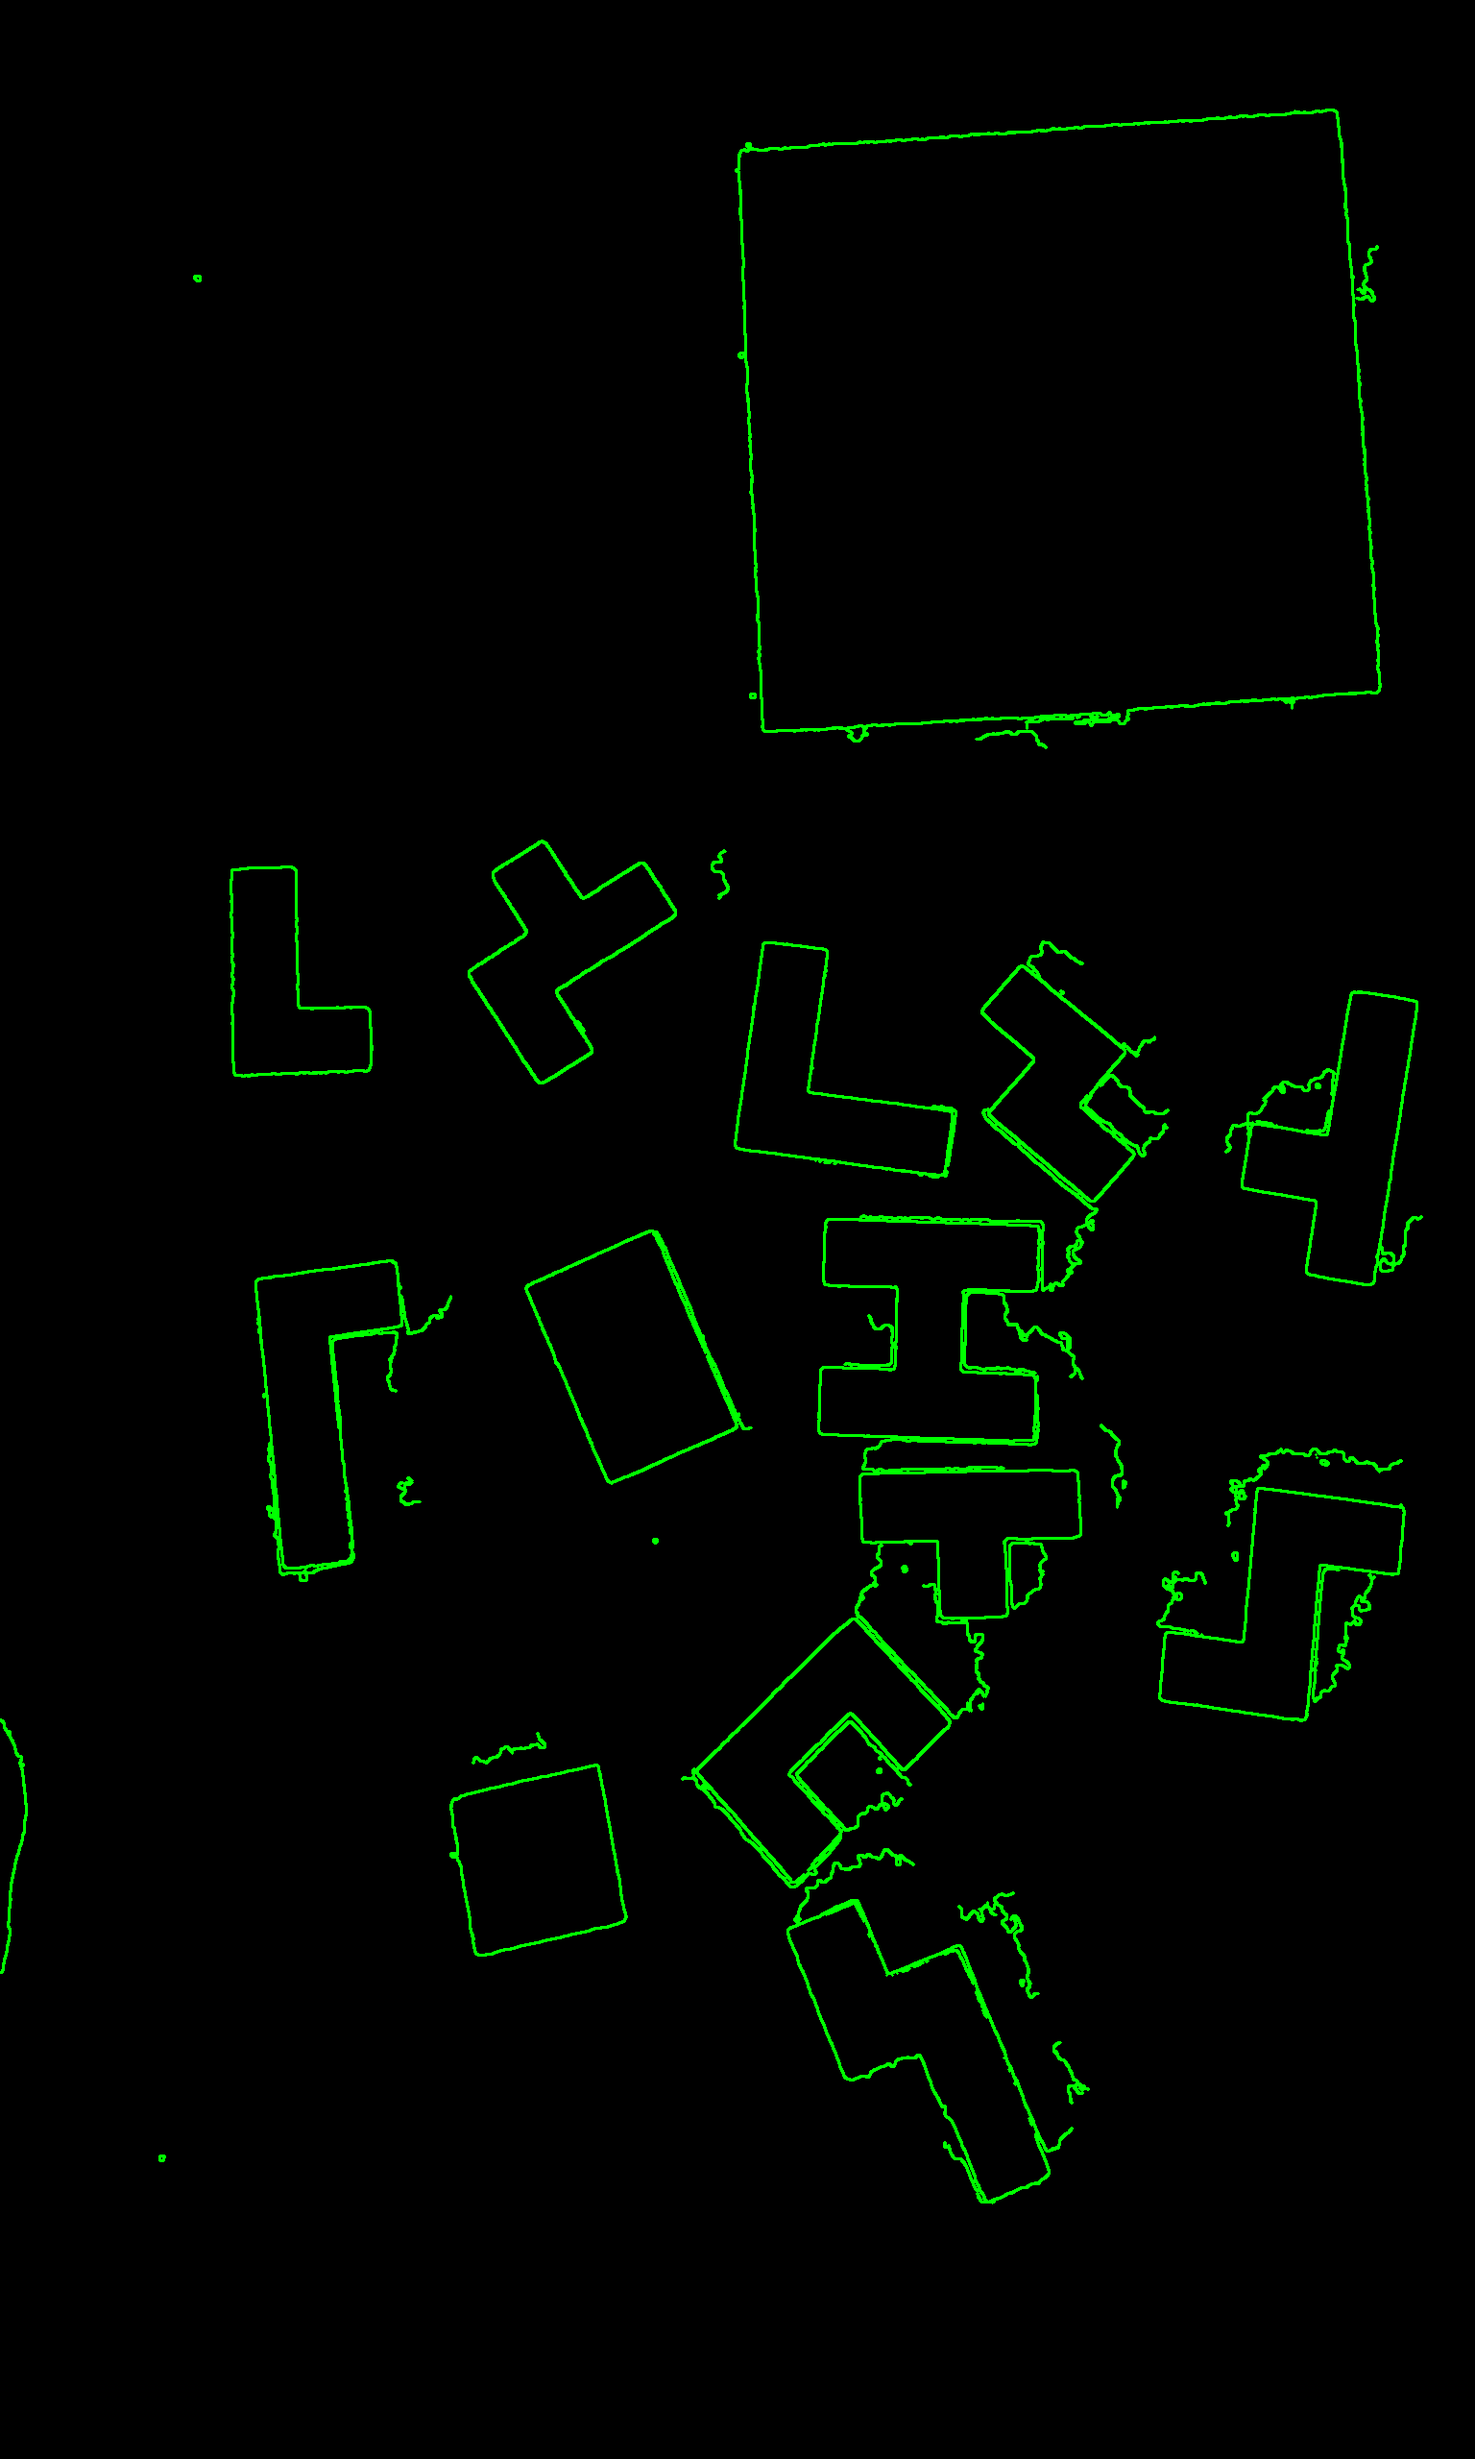
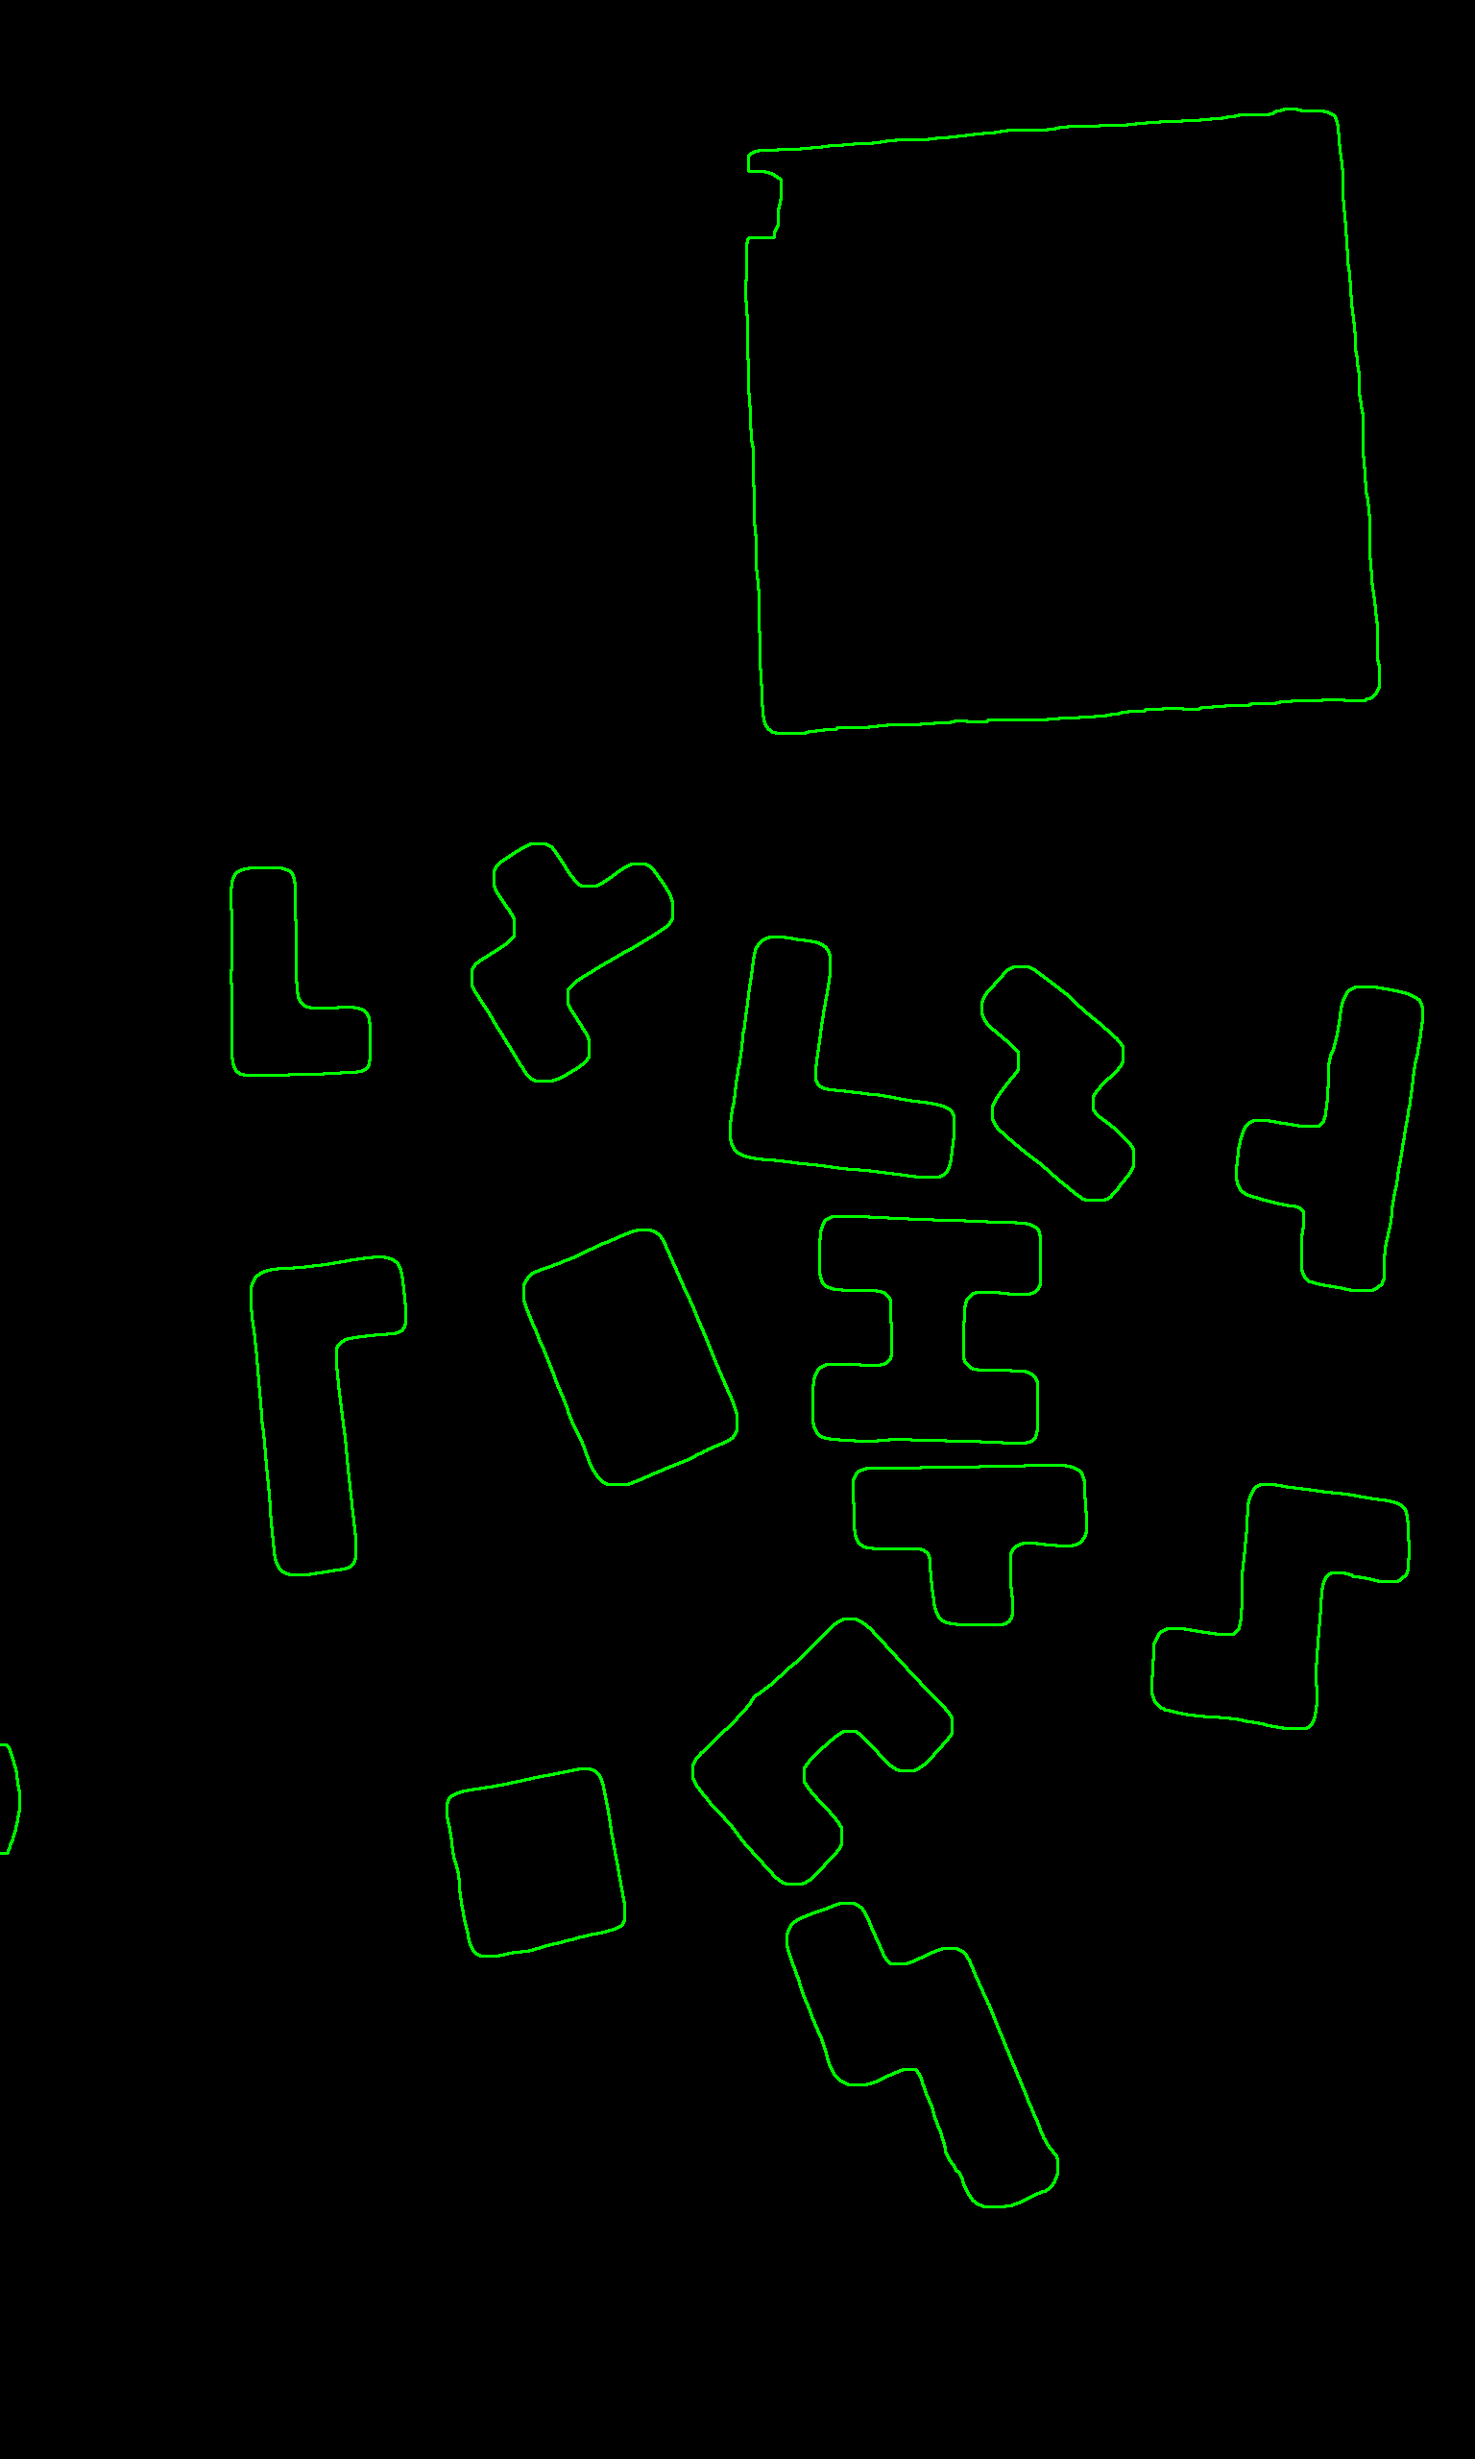
best I could do so far for recognition with original picture

diff --git a/preprocessor/PreProcessor.py b/preprocessor/PreProcessor.py
@@ -1,6 +1,7 @@
 import cv2
 import imutils
 import numpy as np
+import skimage.filters as filters
 
 
 class PreProcessor:
@@ -10,6 +11,12 @@ class PreProcessor:
     def getImage(self):
         return self._image
 
+    def getSaturation(self):
+        # LAB image coming here.
+        # hlsImage = cv2.cvtColor(self._image, cv2.COLOR_BGR2HLS)
+        saturationChannel = self._image[:, :, 1]
+        cv2.imwrite("saturation.png", saturationChannel)
+
     def applyContrast(self, alpha, beta):
         self._image = cv2.convertScaleAbs(self._image, alpha=alpha, beta=beta)
         cv2.imwrite("imgContrast.png", self._image)
@@ -17,6 +24,38 @@ class PreProcessor:
     def applyBlur(self, blur):
         self._image = cv2.GaussianBlur(self._image, (blur, blur), 0)
         cv2.imwrite("blur.png", self._image)
+
+    def gray(self):
+        self._image = cv2.cvtColor(self._image, cv2.COLOR_LAB2BGR)
+        self._image = cv2.cvtColor(self._image, cv2.COLOR_BGR2GRAY)
+        cv2.imwrite("grayed.png", self._image)
+
+    def differentGray(self):
+        image_float = self._image.astype(np.float32) / 255.0
+
+        # Compute the grayscale intensity using the luminosity method
+        gray = np.dot(image_float[..., :3], [0.299, 0.587, 0.114])
+
+        # Scale the intensity values to the range [0, 255] and convert to uint8
+        gray_uint8 = (gray * 255).astype(np.uint8)
+        self._image = gray_uint8
+        cv2.imwrite("diffGray.png", gray_uint8)
+
+    def differentGray2(self):
+        image_lab = cv2.cvtColor(self._image, cv2.COLOR_BGR2LAB)
+
+        L_channel = image_lab[:, :, 0]
+        a_channel = image_lab[:, :, 1]
+        b_channel = image_lab[:, :, 2]
+
+        # Convert LAB channels to grayscale using the formula
+        gray_image = 0.2126 * L_channel + 0.7152 * a_channel + 0.0722 * b_channel
+
+        # Scale the grayscale image to the range [0, 255] and convert to uint8
+        gray_image_uint8 = ((gray_image / np.max(gray_image)) * 255).astype(np.uint8)
+        cv2.imwrite("diffGray2.png", gray_image_uint8)
+        self._image = gray_image_uint8
+        return gray_image_uint8
 
     def removeShadow(self):
         # Convert the image to the LAB color space
@@ -42,35 +81,63 @@ class PreProcessor:
         self._image = resultImage
         # return resultImage
 
-    def pyrMeanShiftFilterContours(self):
-        imgCopy = self._image.copy()
+    def pyrMeanShiftFilter(self):
         # filteredImage = cv2.bilateralFilter(self._image, 30, 80, 80)
         labImage = cv2.cvtColor(self._image, cv2.COLOR_BGR2LAB)
-        filteredImage = cv2.pyrMeanShiftFiltering(labImage, 20, 30)
-        grayImage = cv2.cvtColor(filteredImage, cv2.COLOR_BGR2GRAY)
-        edgeImage = cv2.Canny(grayImage, 50, 100)
-        cv2.imwrite("bilateral.png", edgeImage)
-
-        contours = cv2.findContours(edgeImage, cv2.RETR_EXTERNAL, cv2.CHAIN_APPROX_SIMPLE)
-        contours = imutils.grab_contours(contours)
-
-        H, W = self._image.shape[:2]
-        AREA = H * W
-        for cnt in contours:
-            # print(cnt)
-            area = cv2.contourArea(cnt)
-            if not AREA / 1000 < area < AREA / 5:
-                continue
-            if len(cnt) < 20:
-                continue
-            box = cv2.minAreaRect(cnt)
-            box = cv2.boxPoints(box)
-            box = np.array(box, dtype="int")
-            cv2.drawContours(imgCopy, [box], -1, (255, 0, 255), 2, cv2.LINE_AA)
-
-        result = np.hstack((self._image, filteredImage, cv2.cvtColor(edgeImage, cv2.COLOR_GRAY2BGR), imgCopy))
-        cv2.imwrite("result.png", result)
+        filteredImage = cv2.pyrMeanShiftFiltering(labImage, 50, 20)
+        cv2.imwrite("pyr.png", filteredImage)
         self._image = filteredImage
+
+    def lab(self):
+        self._image = cv2.cvtColor(self._image, cv2.COLOR_BGR2LAB)
+        cv2.imwrite("lab.png", self._image)
+
+    def bilateralFilter(self):
+        self._image = cv2.bilateralFilter(self._image, 10, 45, 45)
+        cv2.imwrite("bilateral.png", self._image)
+
+    def guidedFilter(self):
+        guided_image = cv2.cvtColor(self._image, cv2.COLOR_BGR2GRAY)
+
+        # Apply guided filter
+        filtered_image = cv2.ximgproc.guidedFilter(guided_image, guided_image, radius=30, eps=0.1)
+        cv2.imwrite("guide.png", filtered_image)
+        self._image = filtered_image
+
+    def division(self, blur):
+        smooth = cv2.GaussianBlur(self._image, (blur, blur), 0)
+
+        # divide gray by morphology image
+        division = cv2.divide(self._image, smooth, scale=255)
+        cv2.imwrite('division.png', division)
+
+        # sharpen using unsharp masking
+        sharp = filters.unsharp_mask(division, radius=1.5, amount=1.5, preserve_range=False)
+        sharp = (255 * sharp).clip(0, 255).astype(np.uint8)
+        self._image = sharp
+
+    def hueChannel(self):
+        hsv_image = cv2.cvtColor(self._image, cv2.COLOR_BGR2HSV)
+        hue_channel = hsv_image[:, :, 0]
+        cv2.imwrite("hueChannel.png", hue_channel)
+        self._image = hue_channel
+
+    def morphologicalOpen(self):
+        kernel = np.ones((15, 15), np.uint8)
+        opening = cv2.morphologyEx(self._image, cv2.MORPH_OPEN, kernel)
+        closing = cv2.morphologyEx(opening, cv2.MORPH_CLOSE, kernel)
+        cv2.imwrite("openingmorph.png", opening)
+        cv2.imwrite("closemor.png", closing)
+        self._image = closing
+
+    def adaptiveThreshold(self, blockSize, C):
+        self._image = cv2.adaptiveThreshold(self._image, 255, cv2.ADAPTIVE_THRESH_GAUSSIAN_C, cv2.THRESH_BINARY,
+                                            blockSize, C)
+        cv2.imwrite("adaptiveThresh.png", self._image)
+
+    def otsu(self):
+        _, self._image = cv2.threshold(self._image, 0, 255, cv2.THRESH_BINARY + cv2.THRESH_OTSU)
+        cv2.imwrite("otsu.png", self._image)
 
     def basic2D(self):
         alpha = 1.95
@@ -92,4 +159,3 @@ class PreProcessor:
         cv2.imwrite("thresh.jpg", threshImage)
 
         self._image = threshImage
-        pass

diff --git a/tps.py b/tps.py
@@ -60,7 +60,6 @@ def main():
 
     # Load image and send to shape recognition.         contours = cv.findContours(threshImage, cv.RETR_EXTERNAL, cv.CHAIN_APPROX_SIMPLE)
 
-
     originalImage = cv.imread(args["image"])
 
     copyImage = originalImage
@@ -72,12 +71,46 @@ def main():
     # Testing preproc:
     prep = PreProcessor(copyImage)
     if realProc:
-        prep.applyContrast(1.5, -50)
-        prep.applyBlur(5)
-        prep.pyrMeanShiftFilterContours()
-        prep.pyrMeanShiftFilterContours()
+
+        #   Testing thresh:
+        # prep.applyContrast(1.5, 0)
+        # prep.removeShadow()
+        prep.morphologicalOpen()
+
+        prep.applyBlur(53)
+        prep.applyContrast(2.0, -50)
+
+        # prep.hueChannel()
+        # prep.lab()
+        # prep.bilateralFilter()
+        prep.morphologicalOpen()
+        # prep.morphologicalOpen()
+
+        prep.pyrMeanShiftFilter()
+        # prep.pyrMeanShiftFilter()
+        # prep.bilateralFilter()
+        # prep.guidedFilter()
+        # prep.pyrMeanShiftFilterContours()
+        # prep.pyrMeanShiftFilterContours()
+        # prep.differentGray()
+        prep.gray()
+        # prep.differentGray2()
+        prep.morphologicalOpen()
+        # prep.adaptiveThreshold(23, 7)
+        # prep.division(95)
+        # prep.morphologicalOpen()
+
+        prep.otsu()
+        # prep.applyContrast(1.5, -50)
+        # prep.applyBlur(5)
+        # prep.pyrMeanShiftFilterContours()
+        # prep.applyContrast(1.25, -25)
+        # prep.pyrMeanShiftFilterContours()
+        # prep.applyContrast(1.25, -25)
+        # prep.pyrMeanShiftFilterContours()
         # prep.applyContrast(1.25, 0)
         # prep.removeShadow()
+        # prep.getSaturation()
 
         copyImage = prep.getImage()
         contours = shapeFinder.detectShapes3D(copyImage, originalImage)
@@ -87,7 +120,6 @@ def main():
 
         copyImage = prep.getImage()
         contours = shapeFinder.detectShapes2D(copyImage, originalImage)
-
 
     # Rotate the images in the case they are at an angle.
     rotator = Rotator(rotatorLog | allLog)

diff --git a/shape_finder/finder.py b/shape_finder/finder.py
@@ -33,8 +33,8 @@ class ShapeFinder:
         contours = imutils.grab_contours(contoursCV)
 
         # what is going on?
-        contour_image = np.zeros_like(image)
-        contourFiltered = np.zeros_like(image)
+        contour_image = np.zeros_like(originalImage)
+        contourFiltered = np.zeros_like(originalImage)
         cv.drawContours(contour_image, contours, -1, (0, 255, 0), 2)
         cv.imwrite('contoursagain.png', contour_image)
         filteredContours = []
@@ -44,7 +44,7 @@ class ShapeFinder:
             area = cv.contourArea(contour)
 
             # Area filtering:
-            MINAREA = AREA / 1000
+            MINAREA = AREA / 600
             MAXAREA = AREA / 2
 
             if not MINAREA < area < MAXAREA:
@@ -80,7 +80,7 @@ class ShapeFinder:
         # Smoothen contours - shapes at an angle might have noise.
         smoothed_contours = []
         # Higher epsilon means aggressive smoothing, low epsilon keeps more of the details.
-        epsilon = 0.02
+        epsilon = 0.01
 
         contourList = []
         for i, contour in enumerate(contours):
@@ -105,7 +105,7 @@ class ShapeFinder:
             if self._logger:
                 print(f"Smoothed contour {i}: ", smooth_contour)
 
-        contour_image_smt = np.zeros_like(image)
+        contour_image_smt = np.zeros_like(originalImage)
         cv.drawContours(contour_image_smt, smoothed_contours, -1, (0, 255, 0), 2)
         cv.imwrite('contoursagainsmoothed.png', contour_image_smt)
 
